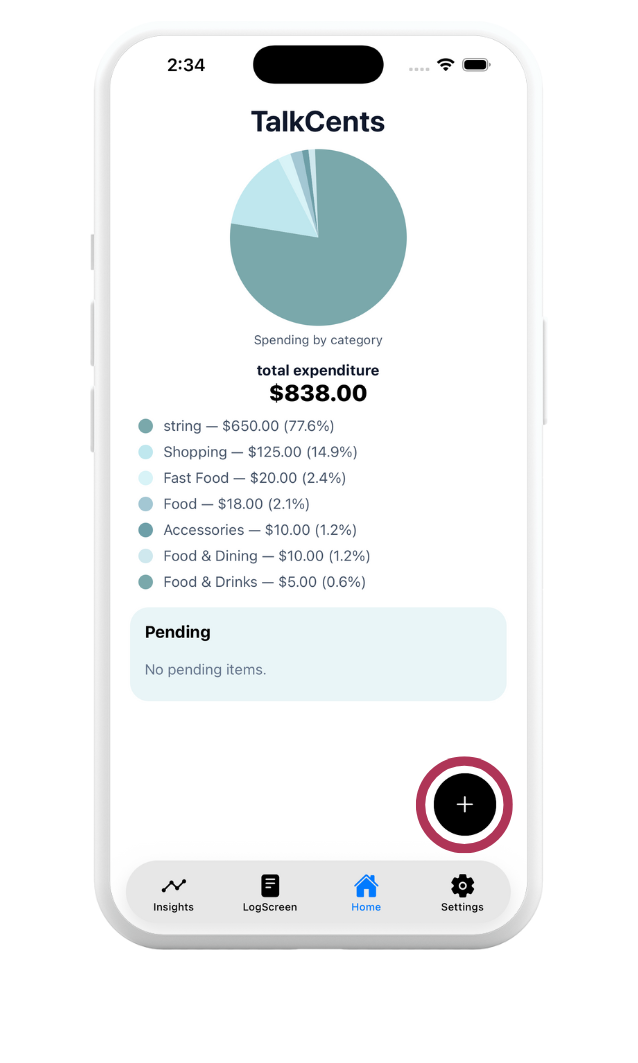
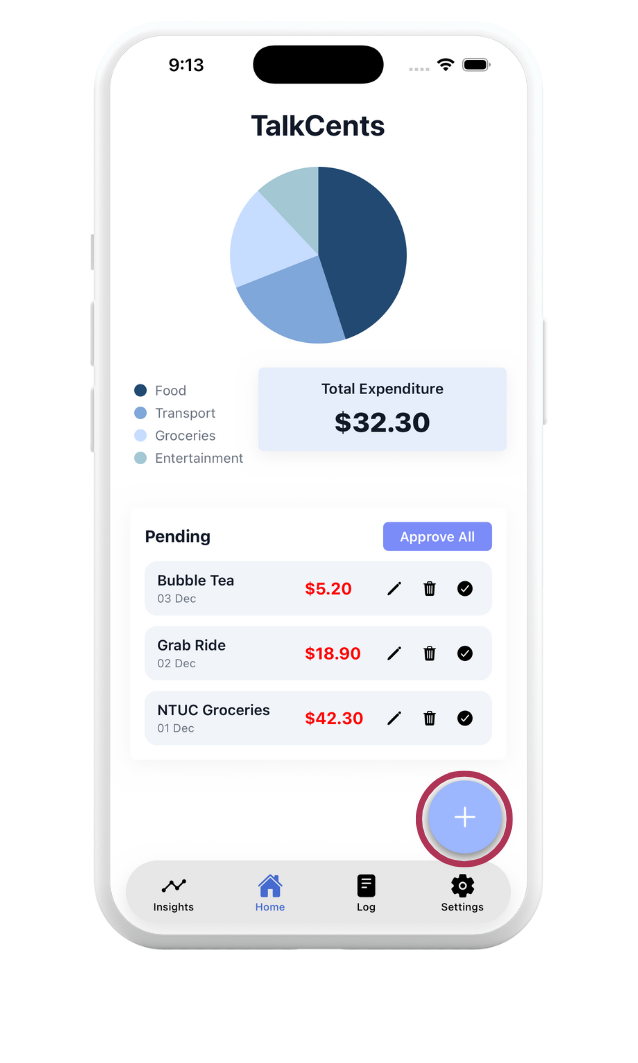
added tutorial, edited minor ui

diff --git a/src/screens/HomeScreen.tsx b/src/screens/HomeScreen.tsx
@@ -119,7 +119,7 @@ export default function HomeScreen() {
       setItems([]);
     }
   }, []);
-
+ 
   // /expenditure/approved -> totals by category + grand total
   const loadSpending = useCallback(async () => {
     try {
@@ -375,15 +375,15 @@ function PendingRow({
       <View style={styles.pendingActions}>
         {/* Edit */}
         <TouchableOpacity style={styles.iconBtn} onPress={onEdit}>
-          <Icon name="pencil" size={16} color="#fff" />
+          <Icon name="pencil" size={16} color="#00000" />
         </TouchableOpacity>
 
         <TouchableOpacity style={styles.iconBtn} onPress={onDelete}>
-          <Icon name="trash" size={16} color="#fff" />
+          <Icon name="trash" size={16} color="#00000" />
         </TouchableOpacity>
 
         <TouchableOpacity style={styles.iconBtn} onPress={onConfirm}>
-          <Icon name="checkmark-circle" size={18} color="green" />
+          <Icon name="checkmark-circle" size={18} color="00000" />
         </TouchableOpacity>
       </View>
     </View>
@@ -524,7 +524,7 @@ const styles = StyleSheet.create({
     backgroundColor: c.primary,
     paddingVertical: 6,
     paddingHorizontal: 16,
-    borderRadius: 10,
+    borderRadius: 5,
   },
   approveAllText: {
     color: '#ffffff',
@@ -578,7 +578,6 @@ const styles = StyleSheet.create({
     width: 28,
     height: 28,
     borderRadius: 6,
-    backgroundColor: c.text,
     alignItems: 'center',
     justifyContent: 'center',
   },

diff --git a/src/navigation/BottomTabs.tsx b/src/navigation/BottomTabs.tsx
@@ -40,7 +40,7 @@ export default function BottomTabs() {
           tabBarIcon: ({ color, size }) => (
             <Icon name={ICONS[route.name]} size={size} color={color} />
           ),
-          tabBarActiveTintColor: '#9DB7FF',
+          tabBarActiveTintColor: '#466bd0ff',
           tabBarInactiveTintColor: '#000000',
           headerShown: false,
           tabBarStyle: styles.tabBar,

diff --git a/src/screens/CreateAccountPage.tsx b/src/screens/CreateAccountPage.tsx
@@ -94,7 +94,7 @@ const styles = StyleSheet.create({
   },
   container: {
     width: width * 0.85,      // 85% of screen width
-    height: height * 0.7,      // 60% of screen height
+    height: height * 0.5,      // 60% of screen height
     padding: 10,
     borderRadius: 12,
     backgroundColor: 'rgba(255,255,255,1.0)', // white
